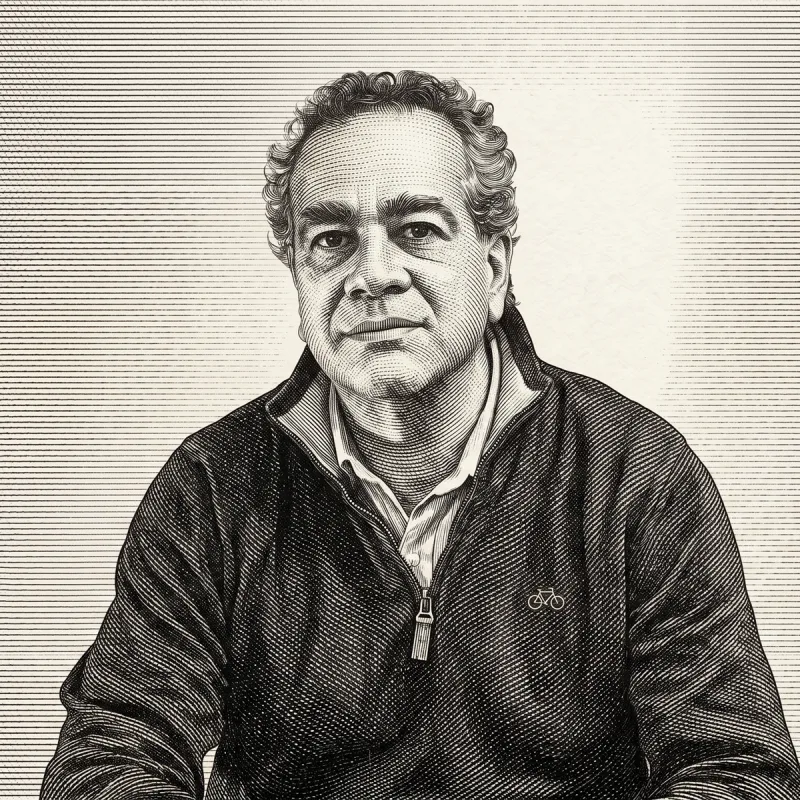
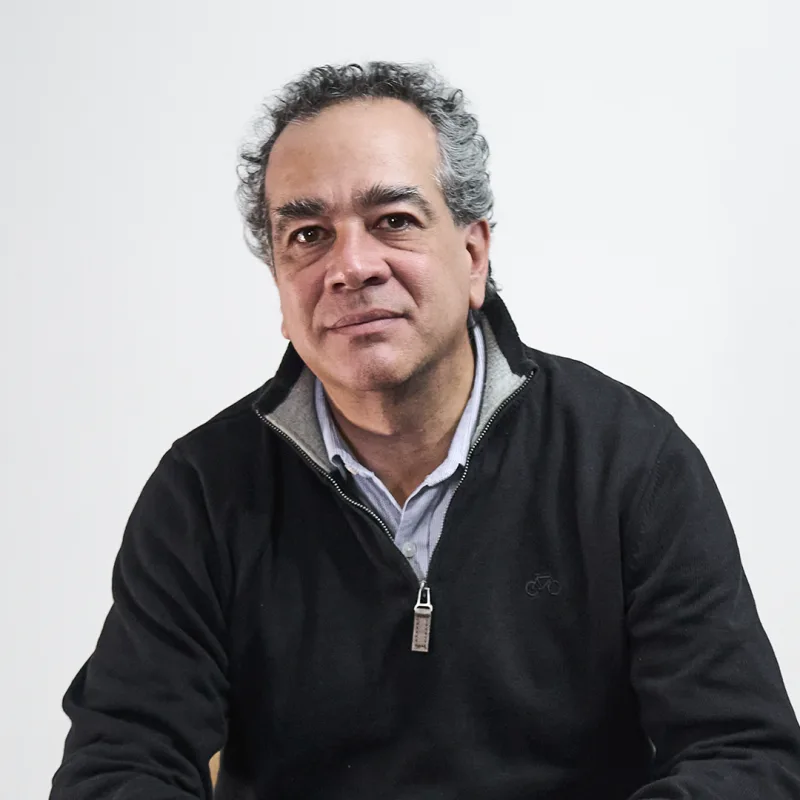
Add Casa Pizano project and update team photos

diff --git a/components/HorizontalTimeline.tsx b/components/HorizontalTimeline.tsx
@@ -23,6 +23,28 @@ interface TimelineItem {
 // ============================================================================
 const timelineData: TimelineItem[] = [
   {
+    year: 2026,
+    title: "Casa Pizano",
+    description: "Un proyecto residencial boutique donde la arquitectura se integra con la naturaleza para crear una experiencia de vida exclusiva.",
+    image: "/Proyectos/CASA-PIZANO/IMG-GENERAL.webp",
+    horizontalImage: "/Proyectos/CASA-PIZANO/IMG-GENERAL.webp",
+    verticalImage: "/Proyectos/CASA-PIZANO/IMG-INTERNA.webp",
+    location: "El Chicó, Bogotá",
+    detailedDescription: "Un proyecto residencial boutique donde la arquitectura se integra con la naturaleza para crear una experiencia de vida exclusiva. Ubicado en El Chicó, Bogotá, en una zona de alto valor residencial y comercial.\n\nCasa Pizano se desarrolla en un lote de 806,3 m² y contempla una torre residencial boutique de 7 plantas, con entre 10 y 11 apartamentos de diferentes tipologías. El proyecto combina espacios privados y áreas comunes como terraza, gimnasio, zona BBQ, salón, oficina, lobby y piso multifuncional.\n\nInicio de obra: octubre 2026.",
+    gallery: [
+      "/Proyectos/CASA-PIZANO/IMG-GENERAL.webp",
+      "/Proyectos/CASA-PIZANO/IMG-INTERNA.webp"
+    ],
+    specifications: [
+      "Torre residencial boutique de 7 plantas",
+      "Entre 10 y 11 apartamentos",
+      "Lote de 806,3 m²",
+      "Terraza, gimnasio y zona BBQ",
+      "Salón, oficina, lobby y piso multifuncional",
+      "Inicio de obra: octubre 2026"
+    ]
+  },
+  {
     year: 2022,
     title: "Dominique",
     description: "Estratégicamente ubicado en el barrio Cielomar, a solo 200 metros de la mejor y más exclusiva playa de la zona norte.",

diff --git a/components/Team.tsx b/components/Team.tsx
@@ -27,12 +27,12 @@ const teamMembers: TeamMember[] = [
   {
     name: 'Julio Salazar',
     role: 'Gerente Financiero',
-    image: '/Equipo/team02.webp'
+    image: '/Equipo/Julio-Salazar.webp'
   },
   {
     name: 'Maru Mendoza',
     role: 'Gerente Administrativa',
-    image: '/Equipo/team03.webp'
+    image: '/Equipo/Maru-Mendoza.webp'
   },
   {
     name: 'Yeni Briceño',
@@ -47,7 +47,7 @@ const teamMembers: TeamMember[] = [
   {
     name: 'Miguel Forero',
     role: 'Administrativo',
-    image: '/Equipo/team01.webp'
+    image: '/Equipo/Miguel-Forero.webp'
   },
   {
     name: 'José David Fandiño',
